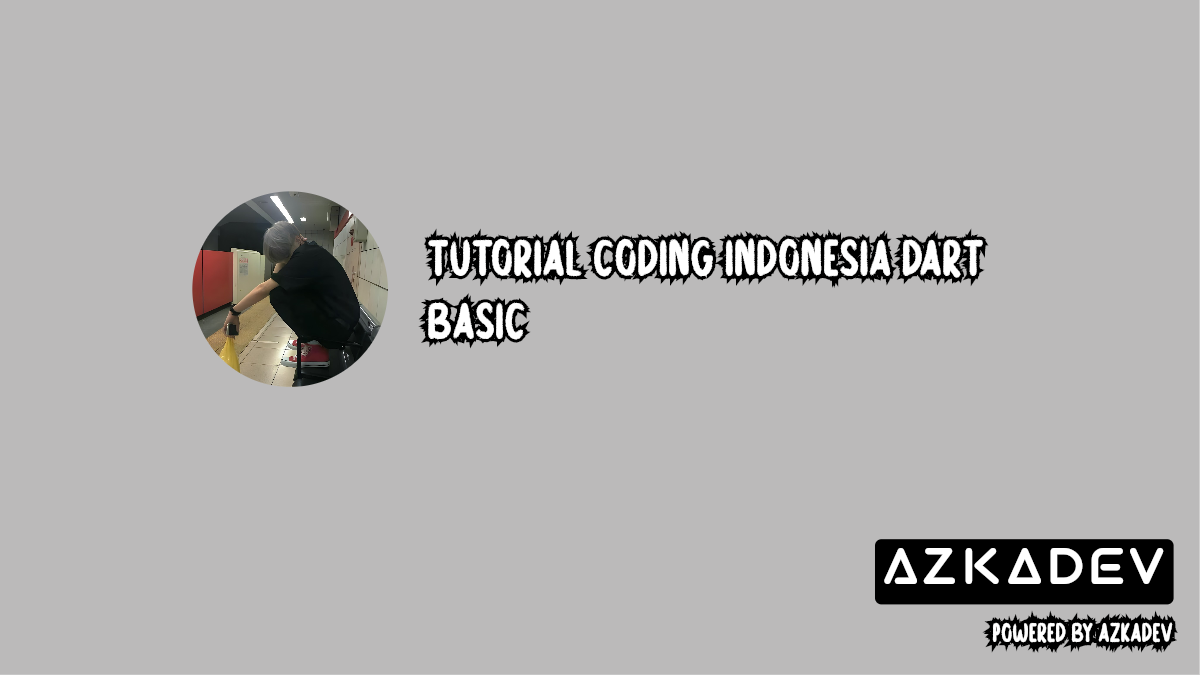
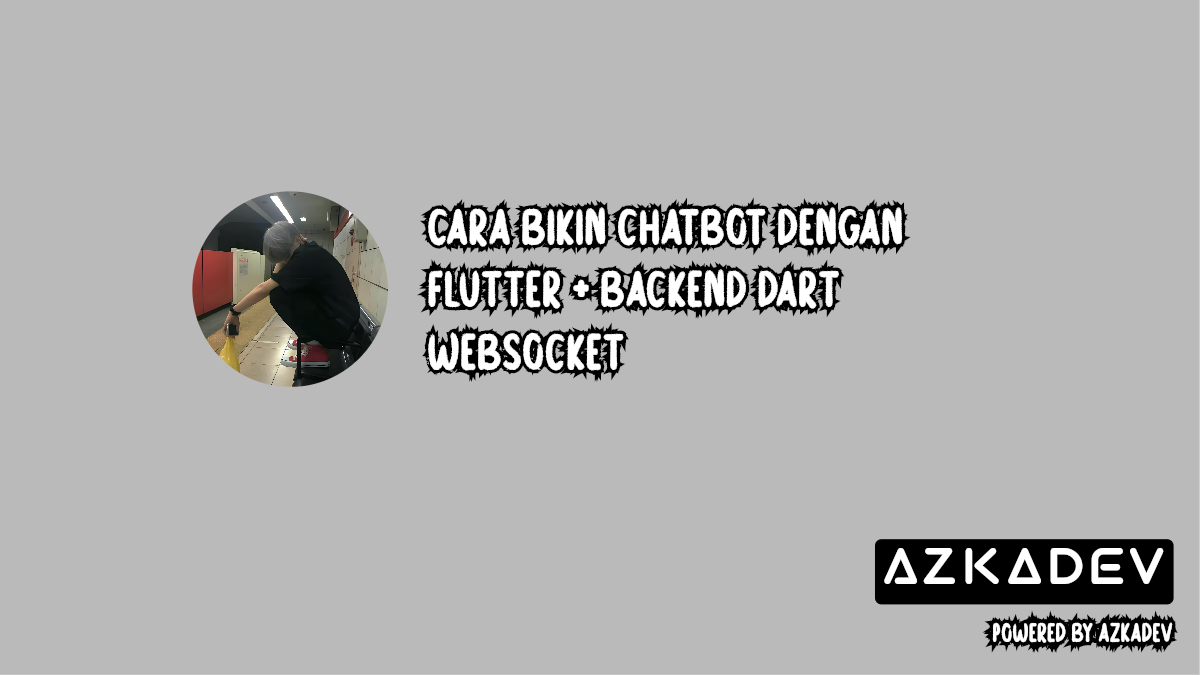
update

Changed region(s): [[0.3392, 0.28, 0.8325, 0.56]]

diff --git a/lib/main.dart b/lib/main.dart
@@ -50,13 +50,13 @@ class _MyHomePageState extends State<MyHomePage> {
     return;
   }
 
-  YoutubeData youtubeData = YoutubeData(
-    id_channel: "UC928-F8HenjZD1zNdMY42vA",
-    caption: "Tutorial coding indonesia dart basic",
-    powered: "Powered By Azkadev",
-  );
   @override
   Widget build(BuildContext context) {
+    YoutubeData youtubeData = YoutubeData(
+      id_channel: "UC928-F8HenjZD1zNdMY42vA",
+      caption: "Cara bikin chatbot dengan flutter + backend dart websocket",
+      powered: "Powered By Azkadev",
+    );
     return Scaffold(
       body: ConstrainedBox(
         constraints: BoxConstraints(
@@ -126,11 +126,11 @@ class _MyHomePageState extends State<MyHomePage> {
                                         Text(
                                           youtubeData.caption,
                                           style: TextStyle(
-                                            fontSize: 40,
+                                            fontSize: 50,
                                             fontFamily: "Keep Me",
                                             foreground: Paint()
                                               ..style = PaintingStyle.stroke
-                                              ..strokeWidth = 5
+                                              ..strokeWidth = 2.0
                                               ..color = Colors.black,
                                           ),
                                         ),
@@ -138,11 +138,12 @@ class _MyHomePageState extends State<MyHomePage> {
                                         Text(
                                           youtubeData.caption,
                                           style: const TextStyle(
-                                            fontSize: 40,
+                                            fontSize: 50,
                                             fontFamily: "Keep Me",
                                             color: Colors.white,
                                           ),
                                         ),
+
                                       ],
                                     ),
                                   ),
